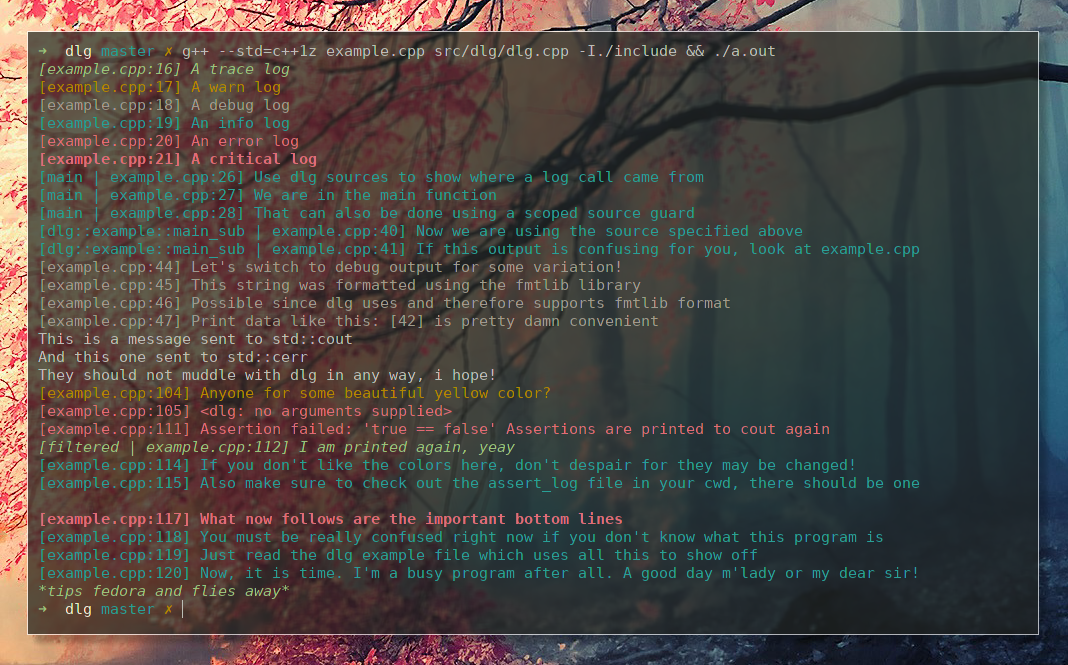
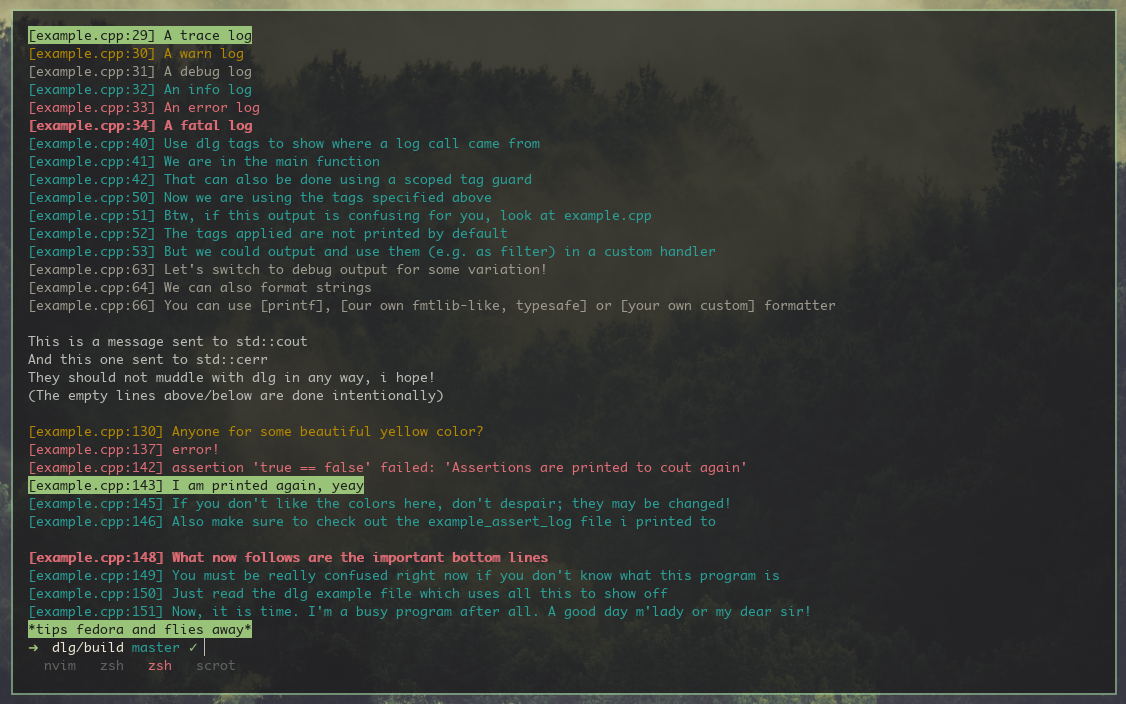
Update picture & prepare release

diff --git a/src/dlg/dlg.c b/src/dlg/dlg.c
@@ -508,8 +508,8 @@ static void* vec_do_create(unsigned int typesize, unsigned int cap, unsigned int
 	return begin + 2;
 }
 
+// NOTE: can be more efficient if we are allowed to reorder vector
 static void vec_do_erase(void* vec, unsigned int pos, unsigned int size) {
-	// TODO: can be more efficient if we are allowed to reorder vector
 	unsigned int* begin = vec__raw(vec);
 	begin[0] -= size;
 	char* buf = (char*) vec;
@@ -569,7 +569,7 @@ static void dlg_free_data(void* ddata) {
 
 void dlg_add_tag(const char* tag, const char* func) {
 	struct dlg_data* data = dlg_data();
-	struct dlg_tag_func_pair* pair = 
+	struct dlg_tag_func_pair* pair =
 		(struct dlg_tag_func_pair*) vec_add(data->pairs);
 	pair->tag = tag;
 	pair->func = func;

diff --git a/docs/changelog.md b/docs/changelog.md
@@ -1,13 +1,18 @@
-2018-3-20 nyorain
+2018-5-20
+	Rework the tags array building macro due to new errors in gcc8.
+	Seems like the C++ way was undefined behavior before, now uses
+	initializer_list.
+
+2018-3-20
 	Fix default_output_handler output on wsl, add option to disable special
-	windows console handling. Also add options to always use color in 
+	windows console handling. Also add options to always use color in
 	default output handler (to work around wsl color limitation).
 
-2018-3-19 nyorain
+2018-3-19
 	dlg.hpp: Allow tlformat (default dlg.hpp formatter) to be called with just a
 	non-string object (which will then just be printed)
 
-2018-01-17 nyorain
+2018-01-17
 	output.h: add dlg_output_msecs for more time output precision
 
 === Release of v0.2.1 ===

diff --git a/README.md b/README.md
@@ -47,6 +47,6 @@ having read the example though:
 ![Here should a beautiful picture of dlg in action be erected. What a shame!](docs/examples/example.png)
 
 Note though that dlg can be used without weird dummy messages as well.
-Building the sample can be enabled by passing the 'sample' argument as true to meson.
+Building the sample can be enabled by passing the 'sample' argument as true to meson (meson <build dir> -Dsample=true).
 
 __Contributions of all kind are welcome, this is nothing too serious though (kinda like life)__

diff --git a/docs/todo.md b/docs/todo.md
@@ -19,7 +19,7 @@
 - [x] decide on whether to catch exceptions from assert expressions. Config variable?
 	- Yeah, don't do it. We are c now
 - [x] make dlg.c valid c++ (mainly casting issues atm)
-- [ ] update README picture
+- [x] update README picture
 - [ ] Fix all todos in dlg.c (mainly error handling questions)
 	- [ ] Check GetLastError with winapi functions?
 - [x] contrib file that implements android log handler (using android liblog)
